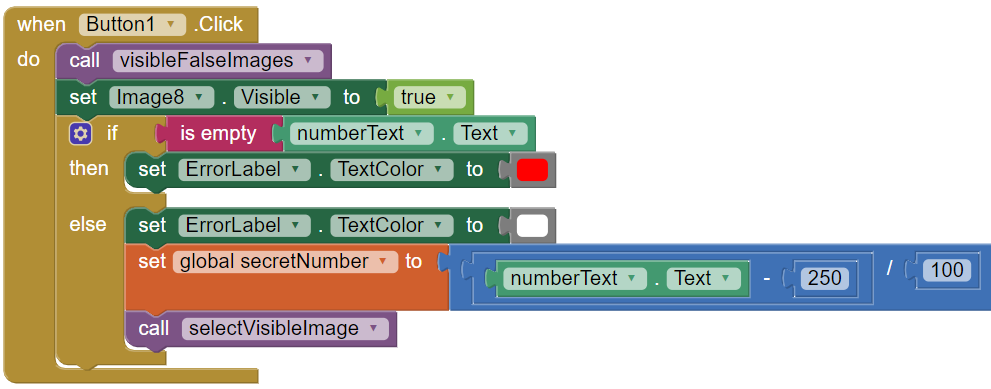
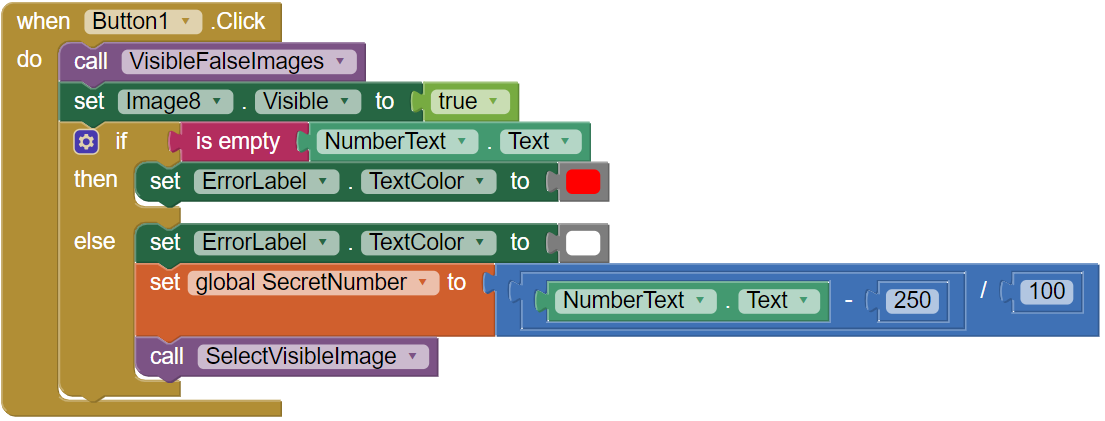
Edited text and images of the chapter "The Guessing Numbers Game".

Changed region(s): [[0.0, 0.0, 1.0, 1.0]]

diff --git a/app_inventor/chapter/guess_numbers_Oksanche.tex b/app_inventor/chapter/guess_numbers_Oksanche.tex
@@ -1,21 +1,21 @@
 \chapter{Угадыватель чисел}
 \label{ch:guessnumbers}
 
-В этой главе мы познакомим вас с программой «Угадыватель чисел»~\cite{PanfilovaApp}, идея которой взята из книги Л. Ф. Магницкого, «Арифметика»~\cite{Galanin}. 
+В этой главе мы познакомим вас с программой «Угадыватель чисел»\cite{PanfilovaApp}, идея которой взята из книги Л. Ф. Магницкого, «Арифметика»\cite{Galanin}. 
 Опишем задачу и расскажем как запрограммировать решение. Поработаем с экранами приложения, создадим процедуры и покажем как разрешить ввод только числовых значений в программе.
 
 
 \section{Описание задачи}
 
-Суть предлагаемой нами задачи описана в книге Л. Ф. Магницкого «Арифметика», в главе: «Об утешных некиих действиях, через арифметику употребляемыx»~\cite{Galanin}.
+Суть предлагаемой нами задачи описана в книге Л. Ф. Магницкого «Арифметика», в главе: «Об утешных некиих действиях, через арифметику употребляемыx»\cite{Galanin}.
 
 Пронумеруем дни недели от одного (понедельник) до семи (воскресенье). 
 Предложим игроку загадать число, равное номеру любого дня недели. Далее попросим загадавшего выполнить следующие действия:
 \begin{enumerate}
-\item Умножить номер загаданного дня недели на два. \footnote[][-0cm]{Шаг 1.}\marginnote[0.2cm]{Пусть $ a $ — искомое число (день недели), $ a \in [1;7] $. В результате выполнения шага 1 получаем $2\cdot a $} 
-\item К полученному произведению прибавить пять.\footnote[][-0cm]{Шаг 2.}\marginnote[0.2cm]{$2\cdot a + 5$} 
-\item Затем полученную сумму умножить на пять.\footnote[][-0cm]{Шаг 3.}\marginnote[0.2cm]{$5\cdot(2 \cdot a  + 5) = 10 a + 25$} 
-\item Полученное число умножить на десять.\footnote[][-0cm]{Шаг 4.}\marginnote[0.2cm]{$(10a + 25)\cdot 10 = 100  a + 250$} 
+\item Умножить номер загаданного дня недели на два\footnote[][-0cm]{Шаг 1.}\marginnote[0.2cm]{Пусть $ a $ — искомое число (день недели), $ a \in [1;7] $. В результате выполнения шага 1 получаем $2\cdot a $}. 
+\item К полученному произведению прибавить пять\footnote[][-0cm]{Шаг 2.}\marginnote[0.2cm]{$2\cdot a + 5$}.
+\item Затем полученную сумму умножить на пять\footnote[][-0cm]{Шаг 3.}\marginnote[0.2cm]{$5\cdot(2 \cdot a  + 5) = 10 a + 25$}.
+\item Полученное число умножить на десять\footnote[][-0cm]{Шаг 4.}\marginnote[0.2cm]{$(10a + 25)\cdot 10 = 100  a + 250$}.
 \item Назвать результат вычислений.
 \end{enumerate}
 
@@ -25,114 +25,109 @@
 \begin{mdfstyle}[nobreak=true,frametitle=Вопрос]
   \sloppy   
   В доказательстве алгоритма определения загаданного игроком числа говорится, что ($ a $ — это искомое число, но не уточняется, какое это число. 
-  Определите вид числа.  Ответ на странице ~\pageref{answer:guess_numbers_task}.
+  Определите вид числа.  Ответ на странице \pageref{answer:guess_numbers_task}.
   \label{question:text}
 \end{mdfstyle}
 
 \section{Реализация приложения}
 \label{styles}
-В программе «Угадыватель чисел» (The Numbers Guessing Game)~\cite{PanfilovaApp} загаданный игроком номер дня недели — это то, что мы будем искать.
-Создадим глобальную переменную  \textit{secretNumber} для хранения искомого числа, загаданного игроком. Присвоим этой переменной значение, равное нулю. 
+В программе «Угадыватель чисел» (The Numbers Guessing Game)\cite{PanfilovaApp} загаданный игроком номер дня недели — это то, что мы будем искать.
+Создадим глобальную переменную  \textit{SecretNumber} для хранения искомого числа, загаданного игроком. Присвоим этой переменной значение, равное нулю. 
 Так как оно не входит в интервал от одного до семи, переменная не равна загаданному числу ($ a $). Также
-отметим, что в этом приложении объекты именуются в стиле СamelCase\footnote[][-0cm]{\index{Процедуры и переменные!Именование} \emph{Именовать объекты} 
+отметим, что в этом приложении объекты именуются в стиле PascalCase\footnote[][-0cm]{\index{Процедуры и переменные!Именование} \emph{Именовать объекты} 
 можно также произвольно, но рекомендуется использовать один из общепринятых стилей.
 }\marginnote[0.2cm]{
 Список самых распространённых стилей см. на с.~\pageref{answer:naming}.
 }. 
 \subsection{Определение числа, загаданного игроком}
-Чтобы в поле \textit{numberText} пользователь мог вводить только числовые значения, необходимо поставить галочку у свойства \textit{(NumbersOnly}.
+Чтобы в поле \textit{NumberText} пользователь мог вводить только числовые значения, необходимо поставить галочку у свойства \textit{(NumbersOnly}.
 
 Рассмотрим блок обработки нажатия (см. рис.~\ref{fig:block:button:click}) на кнопку «Узнать ответ» (Button1).
+\begin{figure}
+  \includegraphics{./graphics/programs/guess_numbers/block_Button1Click_AppInventor_2018.png}
+    \caption[Блок обработки нажатия на кнопку Button1.]{Блок обработки нажатия на кнопку Button1}
+  \label{fig:block:button:click}
+\end{figure}
 Когда игрок нажимает на эту кнопку, последовательно выполняются следующие действия:
 \begin{enumerate}
-  \item Вызываетcя процедура \textbf{visibleFalseImages} (рис. ~\ref{fig:block:visible:false:images}), которая устанавливает свойство Visible у всех изображений с цифрами в false. Таким образом, пока не будет определено число, загаданное пользователем, изображения с цифрами не будут отображаться.
-  \begin{figure}
-    \includegraphics{./graphics/programs/guess_numbers/block_Button1Click_AppInventor_2018.png}
-      \caption[Блок обработки нажатия на кнопку Button1.][6pt]{Блок обработки нажатия на кнопку Button1}
-    \label{fig:block:button:click}
-  \end{figure}
-
-  \item Вызываетcя процедура \textbf{visibleFalseImages} (рис. ~\ref{fig:block:visible:false:images}), которая устанавливает свойство Visible у всех изображений с цифрами в false. Таким образом, пока не будет определено число загаданное пользователем, изображения с цифрами не будут отображаться.
-  \begin{figure}
+  \item Вызываетcя процедура \textbf{VisibleFalseImages} (рис.~\ref{fig:block:visible:false:images}), которая устанавливает свойство Visible у всех изображений с цифрами в false. Таким образом, пока не будет определено число загаданное пользователем, изображения с цифрами не будут отображаться.
+  \begin{marginfigure}[-2em]
     \includegraphics{./graphics/programs/guess_numbers/procedure_visibleFalseImages_AppInventor_2018.png}
-      \caption[Процедура visibleFalseImages.][6pt]{Процедура visibleFalseImages устанавливает свойство Visible у всех изображений с цифрами в false.}
+      \caption[Процедура VisibleFalseImages.]{Процедура VisibleFalseImages устанавливает свойство Visible у всех изображений с цифрами в false.}
     \label{fig:block:visible:false:images}
-  \end{figure}
+  \end{marginfigure}
 
-  \item Устанавливается свойство \textit{Видимость} (\textit{Visible}) в значение true у изображения со знаком вопроса (Image8).
-  \item Если значение поля для ввода загаданного числа (\textit{numberText}) пусто, то приложение сигнализирует пользователю об ошибке следующим образом. Устанавливаем красный цвет шрифта, чтобы стало видно сообщение «Пожалуйста, введите полученное число.» у поля \textit{ErrorLabel}(рис. ~\ref{fig:block:final:screen:error}).
+  \item Устанавливается свойство \textit{Visible} в значение true у изображения со знаком вопроса (Image8).
+  \item Если значение поля для ввода загаданного числа (\textit{NumberText}) пусто, то приложение сигнализирует пользователю об ошибке следующим образом. Устанавливаем красный цвет шрифта, чтобы стало видно сообщение «Пожалуйста, введите полученное число.» у поля \textit{ErrorLabel}(рис.~\ref{fig:block:final:screen:error}).
   \begin{marginfigure}[-2em]
     \includegraphics{./graphics/programs/guess_numbers/finalScreen_Error2_TheGuessingNumbersGame_AppInventor.jpg}
       \caption[Сообщение об ошибке на экране FinalScreen.]{Сообщение об ошибке на экране FinalScreen.}
     \label{fig:block:final:screen:error}
   \end{marginfigure}
-  В случае, когда что либо введено в поле \textit{numberText}, последовательно выполняются следующие шаги:
+  В случае, когда что либо введено в поле \textit{NumberText}, последовательно выполняются следующие шаги:
   \begin{itemize}
     \item Устанавливается белый цвет шрифта у поля \textit{ErrorLabel}.
-    \item Производится подсчёт значения переменной \textit{secretNumber}:
-    \item Вызывается процедура \textbf{selectVisibleImage}, которая будет рассмотрена далее.
+    \item Производится подсчёт значения переменной \textit{SecretNumber}:
+    \item Вызывается процедура \textbf{SelectVisibleImage}, которая будет рассмотрена далее.
   \end{itemize}
 \end{enumerate}
 Возникает вопрос: почему для того, чтобы отображать сообщение об ошибке мы меняем цвет текста у поля \textit{ErrorLabel}, а не управляем значением свойства \textit{Visible}? 
 Дело в том, что при использовании свойства \textit{Visible}, любое изменение его значения вызывает перерисовку экрана, а элементы интерфейса будут менять свои позиции, то есть скакать по экрану.
 В нашем приложении, если цвет поля белый, то компонент \textit{ErrorLabel} сливается с фоном экрана, сообщение об ошибке не видно.
-\section{Процедура selectVisibleImage}
+\section{Процедура SelectVisibleImage}
 
 \begin{figure}
   \includegraphics{./graphics/programs/guess_numbers/procedure_selectVisibleImage_AppInventor_2018.png}
-    \caption[Процедура selectVisibleImage.][6pt]{Процедура selectVisibleImage управляет отображением изображений с цифрами.}
+    \caption[Процедура SelectVisibleImage.]{Процедура SelectVisibleImage управляет отображением изображений с цифрами. Пунктирной линией отмечены однотипные блоки управления, выполняющие действие по установке значения свойства Visible в true у изображения с числом, которое сравнивается с переменной SecretNumber. Такие блоки можно увидеть на изображении для чисел один и семь.}
   \label{fig:block:click:select:visible:image}
 \end{figure}
 
-Процедура \textbf{selectVisibleImage} (рис. ~\ref{fig:block:click:select:visible:image}) читает значение глобальной переменной \textit{secretNumber} и отображает рисунок с соответствующей цифрой.
+Процедура \textbf{SelectVisibleImage} (рис.~\ref{fig:block:click:select:visible:image}) читает значение глобальной переменной \textit{SecretNumber} и отображает рисунок с соответствующей цифрой.
 В случае, если число не было определено, показывается изображение с вопросительным знаком (\textit{Image8}).
 
-Например, пусть игрок загадал число три. На основании введённого пользователем числа в поле \textit{numberText} на экране \textit{FinalScreen}
+Например, пусть игрок загадал число три. На основании введённого пользователем числа в поле \textit{NumberText} на экране \textit{FinalScreen}
 (в этом примере должно быть введено число пятьсот пятьдесят\footnote[][-0cm]{ Пусть $ x $ — число, которое должен ввести пользователь, $ a $ — загаданный игроком номер дня недели, $ a \in [1;7] $, $ a = 3 $. 
 
 Чтобы найти $ x $ выполним следующие преобразования:
 
-$ x = 100 \cdot a + 250  = 100 \cdot 3 + 250  = 550 $}\marginnote[0.2cm]{}
-приложение подсчитает и присвоит переменной \textit{secretNumber} новое значение, равное трем.
-Процедура \textit{selectVisibleImage} в соответствие со значением переменной \textit{secretNumber} делает видимым изображение с соответствующей загаданному числу цифрой. 
-В нашем примере это изображение числа три (\textit{Image3}). Если переменная \textit{secretNumber} содержит в себе значение, не входящее в интервал от одного до семи, то будет показано изображение со знаком вопроса (\textit{Image8}), а текст надписи \textit{ErrorСalculating} станет видимым («Допущена ошибка в расчетах. Попробуйте снова.», ~\ref{fig:block:final:screen:error:label}).
+$ x = 100 \cdot a + 250  = 100 \cdot 3 + 250  = 550 $}\marginnote[0.2cm]{} приложение подсчитает и присвоит переменной \textit{secretNumber} новое значение, равное трем.
+Процедура \textit{SelectVisibleImage} в соответствие со значением переменной \textit{SecretNumber} делает видимым изображение с соответствующей загаданному числу цифрой. 
+В нашем примере это изображение числа три (\textit{Image3}). Если переменная \textit{SecretNumber} содержит в себе значение, не входящее в интервал от одного до семи, то будет показано изображение со знаком вопроса (\textit{Image8}), а текст надписи \textit{ErrorСalculating} станет видимым («Допущена ошибка в расчетах. Попробуйте снова.»,\ref{fig:block:final:screen:error:label}).
 \begin{marginfigure}[-2em]
 \includegraphics{./graphics/programs/guess_numbers/finalScreen_Error_TheGuessingNumbersGame_AppInventor.jpg}
 \caption[Сообщение об ошибке в расчётах на экране FinalScreen.]{Сообщение об ошибке в расчётах на экране FinalScreen.}
   \label{fig:block:final:screen:error}
 \end{marginfigure}
-Важно отметить, что перед выполнением условий сравнения переменной \textit{secretNumber} с введенным пользователем числом, выполняется установка свойства \textit{Visible} в \textit{false} у элементов \textit{Image8} и \textit{ErrorСalculating}(рис. ~\ref{fig:block:click:select:visible:image}).
-Тем самым мы отмечаем отсутствие ошибок в вычислениях и заранее убираем с экрана знак вопроса, предполагая, что на его месте будет изображение с определённой цифрой. Если же переменная \textit{secretNumber} не входит в интервал от одного до семи, то у элементов \textit{Image8} и \textit{ErrorСalculating} устанавливается значение свойства \textit{Visible} в \textit{true}, 
+Важно отметить, что перед выполнением условий сравнения переменной \textit{SecretNumber} с введенным пользователем числом, выполняется установка свойства \textit{Visible} в \textit{false} у элементов \textit{Image8} и \textit{ErrorСalculating} (рис.~\ref{fig:block:click:select:visible:image}).
+Тем самым мы отмечаем отсутствие ошибок в вычислениях и заранее убираем с экрана знак вопроса, предполагая, что на его месте будет изображение с определённой цифрой. Если же переменная \textit{SecretNumber} не входит в интервал от одного до семи, то у элементов \textit{Image8} и \textit{ErrorСalculating} устанавливается значение свойства \textit{Visible} в \textit{true}, 
 так приложение сообщает пользователю о его ошибке в вычислениях.
 
 \subsection{Работа с экранами}
-При проектировании приложения были учтены рекомендации из официальной документации \textit{App Inventor}~\cite{MitManyScreens} по ограничению количества экранов во избежание проблем с переполнением памяти.
+При проектировании приложения были учтены рекомендации из официальной документации \textit{App Inventor}\cite{MitManyScreens} по ограничению количества экранов во избежание проблем с переполнением памяти.
 Поэтому в игре используется восемь экранов (рекомендуемое количество — меньше 10):
 \begin{enumerate}
 \item \textbf{Screen1} — главный экран приложения, меню игры.
 \item \textbf{About} — экран, содержащий информацию о приложении.
 \item \textbf{Step1}, \textbf{Step2}, \textbf{Step3}, \textbf{Step4}, \textbf{Step5} — это экраны с пошаговым описанием задания пользователю. На экранах есть следующие кнопки для навигации между экранами приложения:
 \begin{itemize}
-  \item «\textit{На шаг назад}» (\textit{previousStepButton}) меняет экран на предыдущий.
-  \item «\textit{Далее}» (\textit{nextStepButton}) — переход игрока на следующий экран.
-  \item «\textit{В главное меню}» (\textit{backToMainMenuButton}) показывает пользователю главный экран \textit{Screen1}.
+  \item «\textit{На шаг назад}» (\textit{PreviousStepButton}) меняет экран на предыдущий.
+  \item «\textit{Далее}» (\textit{NextStepButton}) — переход игрока на следующий экран.
+  \item «\textit{В главное меню}» (\textit{BackToMainMenuButton}) показывает пользователю главный экран \textit{Screen1}.
 \end{itemize}
 \item \textbf{FinalScreen} — это экран с результатами игры. Здесь пользователю необходимо ввести получившееся в результате вычислений число и нажать кнопку «\textit{Узнать ответ}», чтобы увидеть на экране число, которое по предположению программы загадал игрок.
 \end{enumerate}
 
 \begin{mdfstyle}[nobreak=true,frametitle=Упражнение]
-  \sloppy
-  Приложение можно перепроектировать таким образом, чтобы экраны \textit{Step1}, \textit{Step2}, \textit{Step3}, \textit{Step4}, \textit{Step5} представляли собой один экран. Попробуйте реализовать приложение «Угадыватель чисел» с одним общим экраном \textit{Steps}, который будет при нажатии на нём кнопок навигации будет последовательно показывать пользователю пошаговую инструкцию, которые ему необходимо выполнить с загаданным числом.]
-  Если вызывать функцию открытия другого экрана (\textit{open another screen}), а затем не вызывать функцию закрытия экрана \textit{close screen}, то через некоторое время приложение израсходует всю доступную память.
-  \end{mdfstyle}
+\sloppy Приложение можно перепроектировать таким образом, чтобы экраны \textit{Step1}, \textit{Step2}, \textit{Step3}, \textit{Step4}, \textit{Step5} представляли собой один экран. Попробуйте реализовать приложение «Угадыватель чисел» с одним общим экраном \textit{Steps}, который будет при нажатии на нём кнопок навигации будет последовательно показывать пользователю пошаговую инструкцию, которые ему необходимо выполнить с загаданным числом.\end{mdfstyle}
 
-Рассмотрим решение этой проблемы в нашем приложении. Экран \textit{Screen1} содержит в себе элементы интерфейса для отображения название игры и две кнопки: «\textit{Старт}» (\textit{startButton} для перехода на экран \textit{Steps} и «\textit{Об игре}» (\textit{AboutButton} для перехода на экран \textit{About}).
+Если вызывать функцию открытия другого экрана (\textit{open another screen}), а затем не вызывать функцию закрытия экрана \textit{close screen}, то через некоторое время приложение израсходует всю доступную память.
+Рассмотрим решение этой проблемы в нашем приложении. Экран \textit{Screen1} содержит в себе элементы интерфейса для отображения название игры и две кнопки: «\textit{Старт}» (\textit{StartButton} для перехода на экран \textit{Steps} и «\textit{Об игре}» (\textit{AboutButton} для перехода на экран \textit{About}).
 
-Для того, чтобы не получить ошибку переполнения памяти, создадим процедуру для закрытия экрана, которую назовём \textbf{closeScreen} (рис.~\ref{fig:block:click:close:screen}). Она будет содержать в себе один единственный блок управления «\textit{close screen}». 
-\begin{figure}
+Для того, чтобы не получить ошибку переполнения памяти, создадим процедуру для закрытия экрана, которую назовём \textbf{CloseScreen} (рис.~\ref{fig:block:click:close:screen}). Она будет содержать в себе один единственный блок управления «\textit{close screen}». 
+\begin{marginfigure}[-2em]
   \includegraphics{./graphics/programs/guess_numbers/procedure_closeScreen_AppInventor_2018.png}
-    \caption[Процедура closeScreen.][6pt]{Процедура closeScreen закрывает текущий экран.}
+    \caption[Процедура CloseScreen.]{Процедура CloseScreen закрывает текущий экран.}
   \label{fig:block:click:close:screen}
-\end{figure}
-Возникает вопрос: зачем действие по закрытию экрана помещать в отдельную процедуру? Это необходимо для того, чтобы последовательно выполнить функции \textit{open another screen} и \textit{close screen} при возникновении события нажатия на любую навигационную кнопку (\textit{Click}). «Пазлы» блоков управления открытия и закрытия 'экрана спроектированы так, что их нельзя объединить в одном блоке App Inventor, но можно соединить их через вызов процедуры, что и было сделано (рис.~\ref{fig:block:click:close:screen})}.
+\end{marginfigure}
+Возникает вопрос: зачем действие по закрытию экрана помещать в отдельную процедуру? Это необходимо для того, чтобы последовательно выполнить функции \textit{open another screen} и \textit{close screen} при возникновении события нажатия на любую навигационную кнопку (\textit{Click}). «Пазлы» блоков управления открытия и закрытия 'экрана спроектированы так, что их нельзя объединить в одном блоке App Inventor, но можно соединить их через вызов процедуры, что и было сделано (рис.~\ref{fig:block:click:close:screen}).
 
